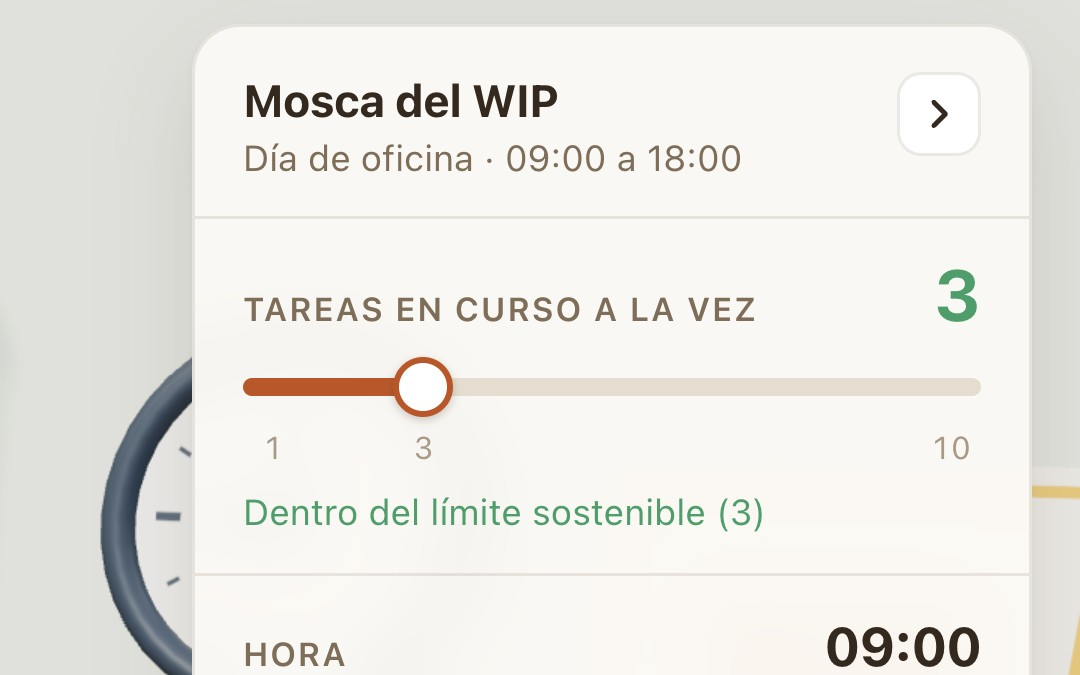
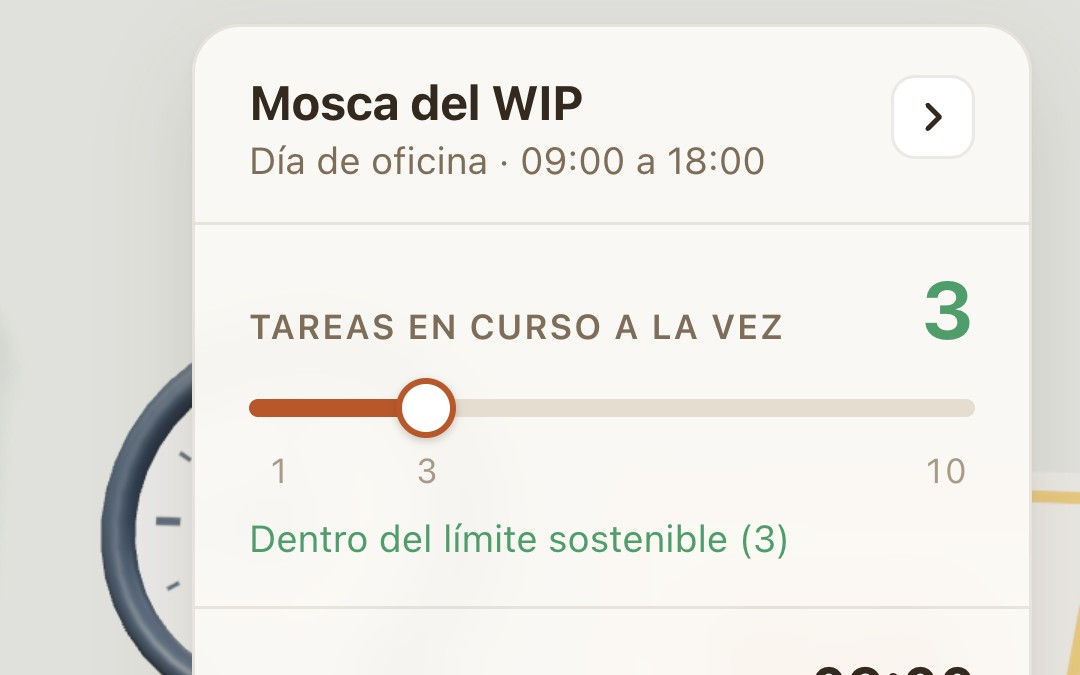
Etapa 8.8 (rama de prueba): arreglos de las pruebas, fotos y bitácora
- la tarjeta de inicio se acomoda sola en el celular, antes del primer
  cuadro: busca dejarle lugar a la mosca y, si no se puede, pone lo más
  que quepa (sin el salto al abrir el juego en un iPhone de 375 × 667)
- "?" arriba a la derecha de la oficina con el teléfono girado
- la hoja del celular con más aire bajo el deslizador (crece 2 px)
- la tarjeta en ventanas bajas ya no se desliza por dentro
- "Con este control eliges…" ("decides" confundía a la revisión de inglés)
- las fotos de "Cómo se juega" de la portada, con el panel nuevo
- mapa de contenidos, capturas de la etapa y la bitácora completa

Todas las pruebas en verde (26 de siempre, probar-quieta y probar-recorrido)
y coherencia en 0. NO ESTÁ EN EL SITIO: espera el OK de Felipe.

diff --git a/src/celular.css b/src/celular.css
@@ -349,7 +349,7 @@ html.celular #panel {
   width: auto;
   max-height: none;
   overflow: visible;
-  padding: 2px 16px 12px;
+  padding: 2px 16px 11px;
   border: 0;
   border-radius: 22px 22px 0 0;
   background: var(--cel-hoja-fondo);
@@ -382,7 +382,7 @@ html.celular #cel-mas {
   display: block !important;
   position: relative;
   width: 100%;
-  height: 22px;
+  height: 20px;
   padding: 0;
   border: 0;
   border-radius: 8px;
@@ -411,7 +411,7 @@ html.celular #cel-mas::after {
   position: absolute;
   top: -2px;
   right: 0;
-  bottom: -20px;
+  bottom: -22px; /* (8.8: la manilla mide 20 px y no 22: la zona sigue en 44) */
   left: 0;
 }
 
@@ -481,9 +481,13 @@ html.celular .escala span:nth-child(3) {
   left: calc(100% - 15px);
 }
 
-/* una sola línea, así la hoja no cambia de alto */
+/* una sola línea, así la hoja no cambia de alto. (8.8, pedido de Felipe: el
+   panel de los controles "muy apretado, y se ve en los textos") Antes iba
+   pegada a los números de la escala: ahora respira 5 px más. Para que la
+   mosca no pierda lugar, la hoja recupera casi todo en la manilla y en su
+   borde de abajo: crece 2 px en total */
 html.celular #wip-nota {
-  margin: -1px 0 0;
+  margin: 4px 0 0;
   font-size: 13px;
   white-space: nowrap;
   overflow: hidden;
@@ -1485,6 +1489,13 @@ html.celular .cel-banner-botones button:focus-visible {
 @media (orientation: landscape) {
   html.celular {
     --cel-solape: 0px;
+  }
+
+  /* (8.8) "?" (el recorrido) va arriba a la derecha de la oficina: al lado de
+     la flecha de volver están las pestañas, que lo taparían */
+  html.celular #cel-ayuda {
+    justify-self: end;
+    margin: var(--cel-margen) var(--cel-margen) 0 0;
   }
 
   html.celular body {

diff --git a/src/main.js b/src/main.js
@@ -326,7 +326,7 @@ document.getElementById('btn-empezar').addEventListener('click', () => {
 //    completa hasta, con el zoom de pantalla o la letra muy agrandada, solo el
 //    botón.
 const TAPAN_AVISO = ['cel-volver', 'cel-controles', 'cel-pestanas', 'panel'].map((id) => document.getElementById(id));
-const ALTO_COMODO_MOSCA = 110; // el lugar que se busca dejarle a la mosca sobre la tarjeta
+const ALTO_COMODO_MOSCA = 100; // el lugar que se busca dejarle a la mosca sobre la tarjeta (con 110, en inglés y en 390 × 664 quedaba a 2 px de soltar una línea más)
 const NIVELES_AVISO = [[], ['sin-final'], ['sin-final', 'sin-reglas'], ['sin-detalle'], ['sin-detalle', 'sin-titulo'], ['sin-detalle', 'sin-titulo', 'solo-boton']];
 function ajustarAvisoEmpezar() {
   const poner = (nivel) => {
@@ -1827,7 +1827,11 @@ iniciarCelular({
     }
     ajustarEscena();
     if (activo) encuadrarExhibicion();
-    medirEncajeAviso();
+    // (8.8) la tarjeta de inicio se acomoda ANTES del primer cuadro: si recién
+    // después soltara sus líneas para dejarle lugar a la mosca, la mosca se
+    // dibujaría grande un instante y se achicaría de golpe (lo revisa
+    // scripts/probar-salto.mjs en 375 × 667)
+    ajustarAvisoEmpezar();
   },
   // Al salir del cerebro se cierran su explicación y la tarjetita de una neurona
   alCambiarVista(nueva) {

diff --git a/src/style.css b/src/style.css
@@ -801,6 +801,11 @@ body.en-recorrido #aviso-empezar {
     gap: 9px;
     padding: 14px 20px 10px;
   }
+  /* (el margen de abajo de "¿Qué es esto?" no pasa del borde de la tarjeta:
+     si no, la tarjeta se podía deslizar 2 px por dentro) */
+  #aviso-que-es {
+    margin-bottom: -10px;
+  }
   .aviso-mosca {
     width: 36px;
   }

diff --git a/docs/mapa-de-contenidos.md b/docs/mapa-de-contenidos.md
@@ -1,6 +1,6 @@
 # Mapa de contenidos: dónde vive cada mensaje
 
-Al día el 2026-11-07. Lo escribe solo `node scripts/revisar-coherencia.mjs --mapa`
+Al día el 2026-11-10. Lo escribe solo `node scripts/revisar-coherencia.mjs --mapa`
 (no se edita a mano: si algo está mal, se corrige en el script).
 
 **Para qué sirve.** Cuando cambia uno de estos mensajes, aquí está cada lugar
@@ -25,13 +25,15 @@ texto, se cambian sus frases en `CLAVES` del script.
 | Mensaje de la portada | Ocupado todo el día. ¿Y qué terminaste? | Busy all day. So what did you finish? | `index.html`, `src/portada-textos.js`, `scripts/generar-ingles.mjs`, `docs/contexto/compartir.html`, `docs/contexto/compartir-en.html`, `docs/contexto/resumen.html`, `docs/contexto/resumen-en.html`, `docs/contexto/vista-previa.html`, `docs/contexto/vista-previa-pagina.html`, `docs/etapa7-difusion.md` | **Sitio:** /, /en/, /en/report/, /informe/, /Mosca-del-WIP-Informe.pdf, /Mosca-del-WIP-Report.pdf, /Mosca-del-WIP-Resumen.pdf, /Mosca-del-WIP-Summary.pdf<br>**Código del sitio:** src/portada-textos.js<br>**Escritorio (lo vigente suelto):** 2026-11-07 Borradores de difusión v3.pdf, Mosca del WIP - Informe.pdf, Mosca del WIP - Report.pdf, Mosca del WIP - Resumen.pdf, Mosca del WIP - Summary.pdf<br>**Borradores:** docs/etapa7-difusion.md, borrador 1 |
 | Frase norte del problema | Estar siempre ocupado no es lo mismo que avanzar | Being busy all the time isn’t the same as making progress | `index.html`, `src/portada-textos.js`, `docs/contexto/compartir.html`, `docs/contexto/compartir-en.html`, `scripts/informe-web.mjs`, `docs/contexto/taller-presentacion/armar-v6.cjs`, `docs/contexto/vista-previa-pagina.html`, `docs/etapa7-difusion.md` | **Sitio:** /, /en/, /en/report/, /informe/, /Mosca-del-WIP-Informe.pdf, /Mosca-del-WIP-Report.pdf, /taller/Mosca-del-WIP-Taller-Presentacion.pptx<br>**Código del sitio:** src/portada-textos.js<br>**Escritorio (lo vigente suelto):** 2026-11-06 Taller - Presentación v6.pptx, 2026-11-07 Borradores de difusión v3.pdf, Mosca del WIP - Informe.pdf, Mosca del WIP - Report.pdf<br>**Borradores:** docs/etapa7-difusion.md, borrador 1 |
 | Frase norte de la respuesta | Un límite sostenible, no una cosa a la vez | A sustainable limit, not one thing at a time | `index.html`, `src/portada-textos.js`, `docs/contexto/compartir.html`, `docs/contexto/compartir-en.html`, `docs/contexto/resumen.html`, `docs/contexto/resumen-en.html` | **Sitio:** /, /en/, /en/report/, /informe/, /Mosca-del-WIP-Informe.pdf, /Mosca-del-WIP-Report.pdf, /Mosca-del-WIP-Resumen.pdf, /Mosca-del-WIP-Summary.pdf<br>**Código del sitio:** src/portada-textos.js<br>**Escritorio (lo vigente suelto):** Mosca del WIP - Informe.pdf, Mosca del WIP - Report.pdf, Mosca del WIP - Resumen.pdf, Mosca del WIP - Summary.pdf |
-| Corrida oficial: cuántas terminó | En el juego, con 2 a la vez termina 18 (17,99) y con 9, la mitad (9,14). Promedio de 200 días | In the game, with 2 at once she finishes 18 (17.99) and with 9, half as many (9.14). Average of 200 days | `index.html`, `src/portada-textos.js`, `docs/paginas/limite-wip.html`, `docs/paginas/wip-limit.html`, `docs/paginas/taller.html`, `docs/paginas/workshop.html`, `docs/contexto/compartir.html`, `docs/contexto/compartir-en.html`, `docs/contexto/resumen.html`, `docs/contexto/resumen-en.html`, `docs/contexto/taller-presentacion/armar-v6.cjs`, `docs/etapa7-difusion.md` | **Sitio:** /, /datos/mosca-del-wip-1-a-10-tareas.csv, /datos/mosca-del-wip-1-to-10-tasks.csv, /datos/mosca-del-wip-urgencias.csv, /datos/mosca-del-wip-urgent-tasks.csv, /en/, /en/report/, /en/wip-limit/, /en/workshop/, /informe/, /limite-wip/, /Mosca-del-WIP-Informe.pdf, /Mosca-del-WIP-Resumen.pdf, /Mosca-del-WIP-Summary.pdf, /taller/, /taller/Mosca-del-WIP-Taller-Presentacion.pdf, /taller/Mosca-del-WIP-Taller-Presentacion.pptx<br>**Código del sitio:** src/portada-textos.js<br>**Escritorio (lo vigente suelto):** 2026-11-06 Taller - Presentación v6.pdf, 2026-11-06 Taller - Presentación v6.pptx, 2026-11-07 Borradores de difusión v3.pdf, Mosca del WIP - Informe.pdf, Mosca del WIP - Resumen.pdf, Mosca del WIP - Summary.pdf<br>**Borradores:** docs/etapa7-difusion.md, borrador 2, docs/etapa7-difusion.md, borrador 4, docs/etapa7-difusion.md, borrador 5, docs/etapa7-difusion.md, borrador 6 |
+| Corrida oficial: cuántas terminó | En el juego, con 2 a la vez termina 18 (17,99) y con 9, la mitad (9,14). Promedio de 200 días | In the game, with 2 at once she finishes 18 (17.99) and with 9, half as many (9.14). Average of 200 days | `index.html`, `src/portada-textos.js`, `docs/paginas/limite-wip.html`, `docs/paginas/wip-limit.html`, `docs/paginas/taller.html`, `docs/paginas/workshop.html`, `docs/contexto/compartir.html`, `docs/contexto/compartir-en.html`, `docs/contexto/resumen.html`, `docs/contexto/resumen-en.html`, `docs/contexto/taller-presentacion/armar-v6.cjs`, `docs/etapa7-difusion.md` | **Sitio:** /, /datos/mosca-del-wip-1-a-10-tareas.csv, /datos/mosca-del-wip-1-to-10-tasks.csv, /datos/mosca-del-wip-urgencias.csv, /datos/mosca-del-wip-urgent-tasks.csv, /en/, /en/report/, /en/wip-limit/, /en/workshop/, /informe/, /limite-wip/, /Mosca-del-WIP-Informe.pdf, /Mosca-del-WIP-Resumen.pdf, /Mosca-del-WIP-Summary.pdf, /taller/, /taller/Mosca-del-WIP-Taller-Presentacion.pdf, /taller/Mosca-del-WIP-Taller-Presentacion.pptx<br>**Código del sitio:** src/portada-textos.js<br>**Escritorio (lo vigente suelto):** 2026-11-06 Taller - Presentación v6.pdf, 2026-11-06 Taller - Presentación v6.pptx, 2026-11-07 Borradores de difusión v3.pdf, Mosca del WIP - Informe.pdf, Mosca del WIP - Resumen.pdf, Mosca del WIP - Summary.pdf<br>**Borradores:** docs/etapa7-difusion.md, borrador 2, docs/etapa7-difusion.md, borrador 3, docs/etapa7-difusion.md, borrador 4, docs/etapa7-difusion.md, borrador 5, docs/etapa7-difusion.md, borrador 6 |
 | Corrida oficial: cuánto tardó cada tarea | Con 2 a la vez, 1 hora. Con 9, 8 h 54 (casi nueve veces más) | With 2 at once, 1 hour. With 9, 8 h 54 (almost nine times longer) | `index.html`, `src/portada-textos.js`, `docs/paginas/limite-wip.html`, `docs/paginas/wip-limit.html`, `docs/contexto/compartir.html`, `docs/contexto/compartir-en.html`, `docs/etapa7-difusion.md` | **Sitio:** /, /en/, /en/report/, /en/wip-limit/, /informe/, /limite-wip/, /Mosca-del-WIP-Informe.pdf, /Mosca-del-WIP-Report.pdf<br>**Código del sitio:** src/portada-textos.js<br>**Escritorio (lo vigente suelto):** 2026-11-07 Borradores de difusión v3.pdf, Mosca del WIP - Informe.pdf, Mosca del WIP - Report.pdf<br>**Borradores:** docs/etapa7-difusion.md, borrador 2, docs/etapa7-difusion.md, borrador 3, docs/etapa7-difusion.md, borrador 4, docs/etapa7-difusion.md, borrador 6 |
 | Corrida oficial: eficiencia de flujo | En el juego, 47 % con 2 a la vez y 9 % con 9 | In the game, 47% with 2 at once and 9% with 9 | `index.html`, `src/portada-textos.js`, `docs/paginas/limite-wip.html`, `docs/paginas/wip-limit.html`, `docs/contexto/compartir.html`, `docs/contexto/compartir-en.html`, `docs/contexto/resumen.html`, `docs/contexto/resumen-en.html`, `docs/contexto/taller-presentacion/armar-v6.cjs`, `docs/etapa7-difusion.md` | **Sitio:** /, /en/, /en/report/, /en/wip-limit/, /informe/, /limite-wip/, /Mosca-del-WIP-Informe.pdf, /Mosca-del-WIP-Report.pdf, /Mosca-del-WIP-Resumen.pdf, /Mosca-del-WIP-Summary.pdf, /taller/Mosca-del-WIP-Taller-Presentacion.pdf, /taller/Mosca-del-WIP-Taller-Presentacion.pptx<br>**Código del sitio:** src/portada-textos.js<br>**Escritorio (lo vigente suelto):** 2026-11-06 Taller - Presentación v6.pdf, 2026-11-06 Taller - Presentación v6.pptx, 2026-11-07 Borradores de difusión v3.pdf, Mosca del WIP - Informe.pdf, Mosca del WIP - Report.pdf, Mosca del WIP - Resumen.pdf, Mosca del WIP - Summary.pdf<br>**Borradores:** docs/etapa7-difusion.md, borrador 1 |
 | Las cuatro ideas | 1. Estar siempre ocupado no es avanzar. 2. Un límite bajo, pero no 1. 3. Lo empezado no desaparece. 4. Las urgencias, de a una. | 1. Being busy all the time isn’t making progress. 2. A low limit, but not 1. 3. What’s started doesn’t disappear. 4. Urgent tasks, one at a time. | `docs/contexto/compartir.html`, `docs/contexto/compartir-en.html`, `docs/contexto/resumen.html`, `docs/contexto/resumen-en.html`, `docs/contexto/taller-presentacion/armar-v6.cjs` | **Sitio:** /en/report/, /informe/, /Mosca-del-WIP-Informe.pdf, /Mosca-del-WIP-Report.pdf, /Mosca-del-WIP-Resumen.pdf, /Mosca-del-WIP-Summary.pdf, /taller/Mosca-del-WIP-Taller-Presentacion.pdf, /taller/Mosca-del-WIP-Taller-Presentacion.pptx<br>**Escritorio (lo vigente suelto):** 2026-11-06 Taller - Presentación v6.pdf, 2026-11-06 Taller - Presentación v6.pptx, Mosca del WIP - Informe.pdf, Mosca del WIP - Report.pdf, Mosca del WIP - Resumen.pdf, Mosca del WIP - Summary.pdf |
 | Para qué sirve un límite | Terminan más, y cada cosa sale antes. El trabajo avanza en vez de esperar. Menos sobrecarga. Cuánto gana tu equipo, lo dice su prueba. | You finish more, and each thing gets done sooner. Work moves forward instead of waiting. Less overload. How much your team gains, its own test will show. | `index.html`, `src/portada-textos.js`, `docs/paginas/limite-wip.html`, `docs/paginas/wip-limit.html`, `docs/paginas/taller.html`, `docs/paginas/workshop.html`, `docs/contexto/compartir.html`, `docs/contexto/compartir-en.html`, `docs/contexto/resumen.html`, `docs/contexto/resumen-en.html` | **Sitio:** /, /en/, /en/report/, /en/wip-limit/, /en/workshop/, /informe/, /limite-wip/, /Mosca-del-WIP-Informe.pdf, /Mosca-del-WIP-Report.pdf, /Mosca-del-WIP-Resumen.pdf, /Mosca-del-WIP-Summary.pdf, /taller/<br>**Código del sitio:** src/portada-textos.js<br>**Escritorio (lo vigente suelto):** Mosca del WIP - Informe.pdf, Mosca del WIP - Report.pdf, Mosca del WIP - Resumen.pdf, Mosca del WIP - Summary.pdf |
 | Lo que se lleva tu equipo | Su carga a la vista. Dónde se queda esperando el trabajo. Un límite acordado, escrito en el tablero. Sus propios datos después de dos semanas. | Their load in plain sight. Where the work sits waiting. An agreed limit, written on the board. Their own data after two weeks. | `index.html`, `src/portada-textos.js`, `docs/paginas/taller.html`, `docs/paginas/workshop.html` | **Sitio:** /, /en/, /en/workshop/, /taller/<br>**Código del sitio:** src/portada-textos.js |
 | Las preguntas del juego (8.7) | En la tarjeta: ¿Con cuál crees que termina más? Al fin del día: ¿Y tú, cuántas cosas tienes empezadas hoy? | On the card: Which one do you think she’ll finish more with? At the end of the day: And you, how many things do you have started today? | `jugar/index.html`, `src/juego-textos.js` | **Sitio:** /jugar/<br>**Código del sitio:** src/juego-textos.js |
+| El recorrido del juego (8.8) | ¿Dónde está cada cosa? Aquí mandas tú. El día. Su tablero. Cómo le va. Su cerebro, en vivo. Tus días jugados. | Where is everything? You’re in charge here. The day. Her board. How she’s doing. Her brain, live. Your days played. | `jugar/index.html`, `src/juego-textos.js` | **Sitio:** /jugar/<br>**Código del sitio:** src/juego-textos.js |
+| El aviso de la mosca del mapa (8.8) | Ninguna mosca salió herida ni fue obligada a trabajar de verdad. Salvo la del mapa: a esa le sacaron el sistema nervioso y lo cortaron en 66 láminas. | No fly was harmed or made to do any real work. Except the one in the map: its nervous system was taken out and cut into 66 slices. | `index.html`, `src/portada-textos.js` | **Sitio:** /, /en/<br>**Código del sitio:** src/portada-textos.js |
 | Los cuatro pasos | 1. Pongan el trabajo a la vista. 2. Cuenten lo abierto y pónganle un límite. 3. Cuando alguien queda esperando, ataquen la espera. 4. Prueben dos semanas y midan. | 1. Make the work visible. 2. Count what’s open and set a limit. 3. When someone is left waiting, go after the wait. 4. Try it for two weeks and measure. | `docs/contexto/compartir.html`, `docs/contexto/compartir-en.html`, `docs/contexto/resumen.html`, `docs/contexto/resumen-en.html` | **Sitio:** /en/report/, /informe/, /Mosca-del-WIP-Informe.pdf, /Mosca-del-WIP-Report.pdf, /Mosca-del-WIP-Resumen.pdf, /Mosca-del-WIP-Summary.pdf<br>**Escritorio (lo vigente suelto):** Mosca del WIP - Informe.pdf, Mosca del WIP - Report.pdf, Mosca del WIP - Resumen.pdf, Mosca del WIP - Summary.pdf |
 | Urgencias: el botón | Mándale una urgencia | Send an urgent task | `index.html`, `src/portada-textos.js`, `jugar/index.html`, `src/juego-textos.js`, `docs/paginas/limite-wip.html`, `docs/paginas/wip-limit.html`, `docs/paginas/taller.html`, `docs/contexto/taller-v7.html` | **Sitio:** /, /en/, /en/wip-limit/, /jugar/, /limite-wip/, /taller/, /taller/Mosca-del-WIP-Taller-Guia-rapida.pdf<br>**Código del sitio:** src/juego-textos.js, src/portada-textos.js<br>**Escritorio (lo vigente suelto):** 2026-11-07 Taller - Guía rápida del facilitador v7.pdf |
 | Urgencias: el resultado | En la simulación, con límite 2, cada urgencia costó una tarea normal | In the simulation, with limit 2, each urgent task cost one (a) regular task | `index.html`, `src/portada-textos.js`, `docs/paginas/limite-wip.html`, `docs/paginas/wip-limit.html`, `docs/paginas/taller.html`, `docs/contexto/compartir.html`, `docs/contexto/compartir-en.html`, `docs/contexto/taller-v7.html` | **Sitio:** /, /en/, /en/report/, /en/wip-limit/, /informe/, /limite-wip/, /Mosca-del-WIP-Informe.pdf, /Mosca-del-WIP-Report.pdf, /taller/, /taller/Mosca-del-WIP-Taller-Guia-rapida.pdf<br>**Código del sitio:** src/portada-textos.js<br>**Escritorio (lo vigente suelto):** 2026-11-03 Etapa 8.2 Urgencias v1.pdf, 2026-11-07 Taller - Guía rápida del facilitador v7.pdf, Mosca del WIP - Informe.pdf, Mosca del WIP - Report.pdf |
